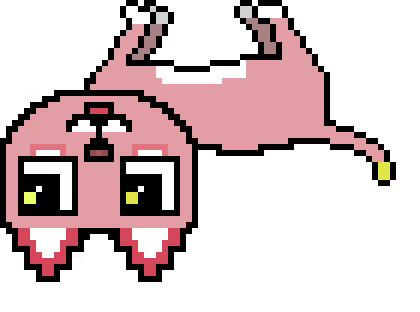
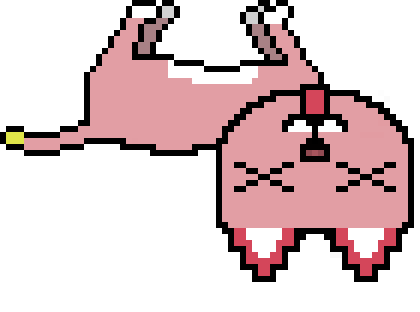
death animation improved

diff --git a/components/mcnay.py b/components/mcnay.py
@@ -79,13 +79,13 @@ class Mcnay(Widget):
             return False
 
     def death(self):
-        self.velocity[1] = self.impulse / self.mass
-        self.velocity[0] = Window.size[0]/200.
+        self.velocity[1] = 0.8*self.impulse / self.mass
+        self.velocity[0] = 0.6*Window.size[0]/200.
         self.mcnay_image.source = 'images/cats/basePinkCat_aoct/CAT_FRAME_DEATH_HD.png'
 
     def update_after_death(self, g_grav):
         if self.velocity[0] > 0:
-            F_friction = g_grav
+            F_friction = 0.15*g_grav
             self.pos[0] = self.pos[0] + (self.velocity[0] + 0.5*F_friction)*Window.size[0]/800.
             self.velocity[0] = self.velocity[0] + 0.5*F_friction
         else:
@@ -94,9 +94,9 @@ class Mcnay(Widget):
         self.pos[1] = self.pos[1] + (self.velocity[1] + 0.5*g_grav)*Window.size[1]/600.
         self.velocity[1] = self.velocity[1] + g_grav
 
-        if self.pos[1] <= self.ground:
-            self.pos[1] = self.ground
-            self.velocity[1] = 0
+        if self.pos[1] <= self.ground*0.4:
+            self.pos[1] = self.ground*0.4
+            self.velocity[1] = -0.5*self.velocity[1]
 
 
 Builder.load_string("""

diff --git a/JumpyKitten.py b/JumpyKitten.py
@@ -64,6 +64,8 @@ class JumpyKittenGame(Widget):
         self.process = Clock.schedule_interval(self.update, 1.0/60.0)
 
     def reset(self):
+        if hasattr(self, 'process'):
+            self.process.cancel()
         self.score = 0
         self.mcnay.reset()
         for obstacle in self.obstacles:
@@ -120,14 +122,13 @@ class JumpyKittenGame(Widget):
 
     def update_death(self, dt):
         self.mcnay.update_after_death(self.g_grav)
-        print(self.mcnay.velocity[0], self.mcnay.velocity[1])
         if self.mcnay.velocity[0] == 0 and self.mcnay.pos[1] == self.mcnay.ground:
             self.process.cancel()
 
     def obstacle_collision(self):
         self.process.cancel()
         self.mcnay.death()
-        self.process = Clock.schedule_interval(self.update_death, 1.0/60.0)   
+        self.process = Clock.schedule_interval(self.update_death, 1.0/60.0)
 
         if platform == 'ios':
             user_data_dir = App.get_running_app().user_data_dir
